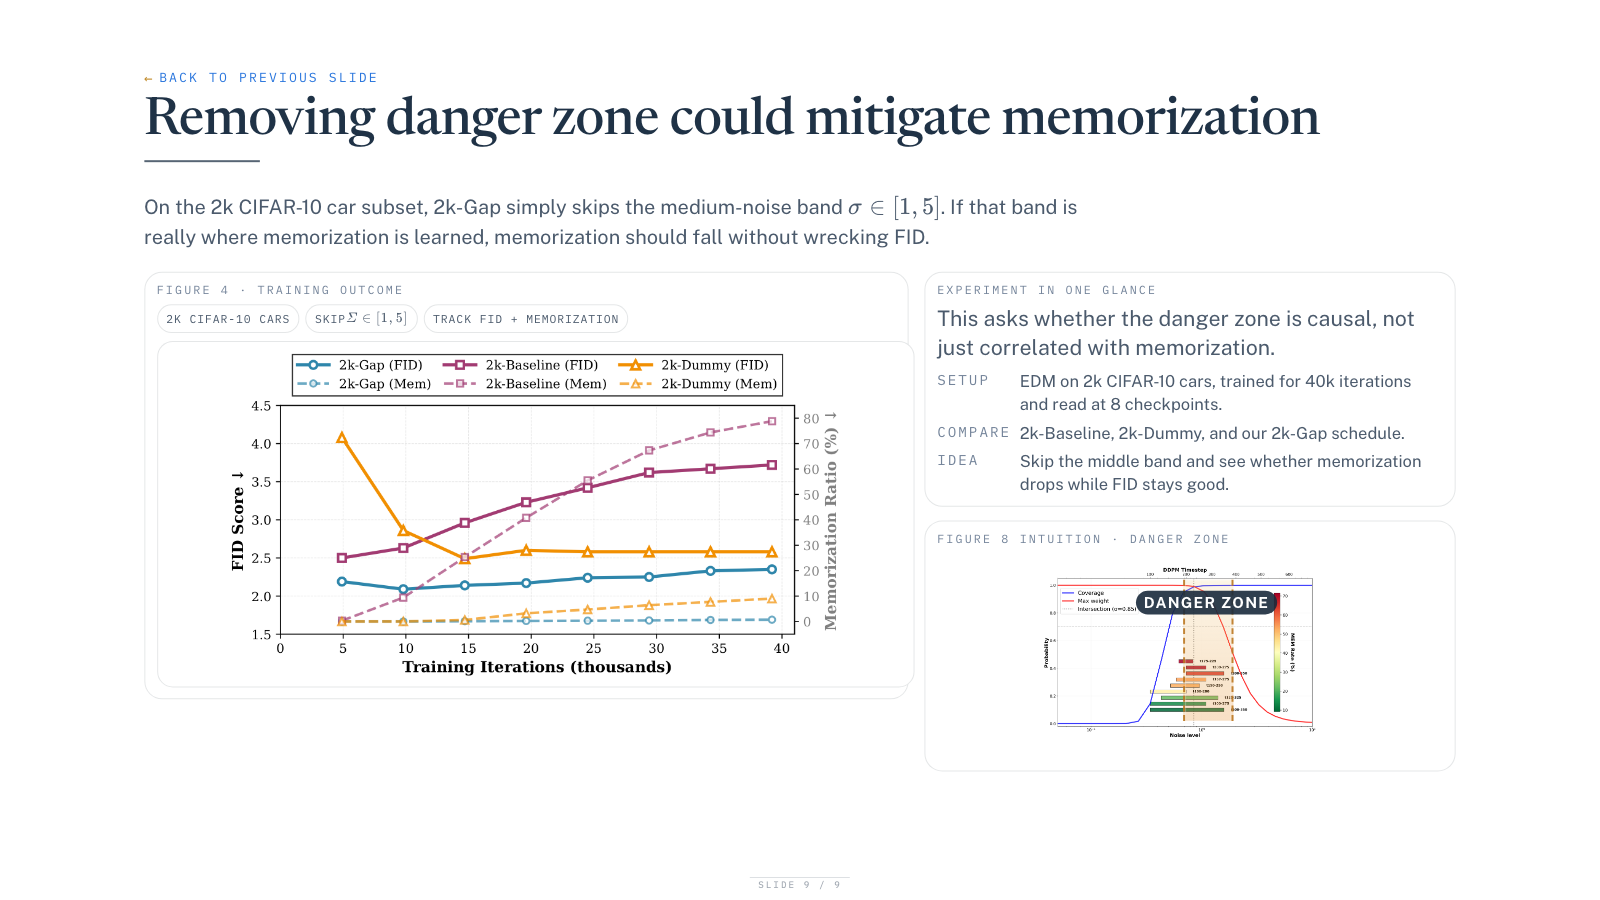
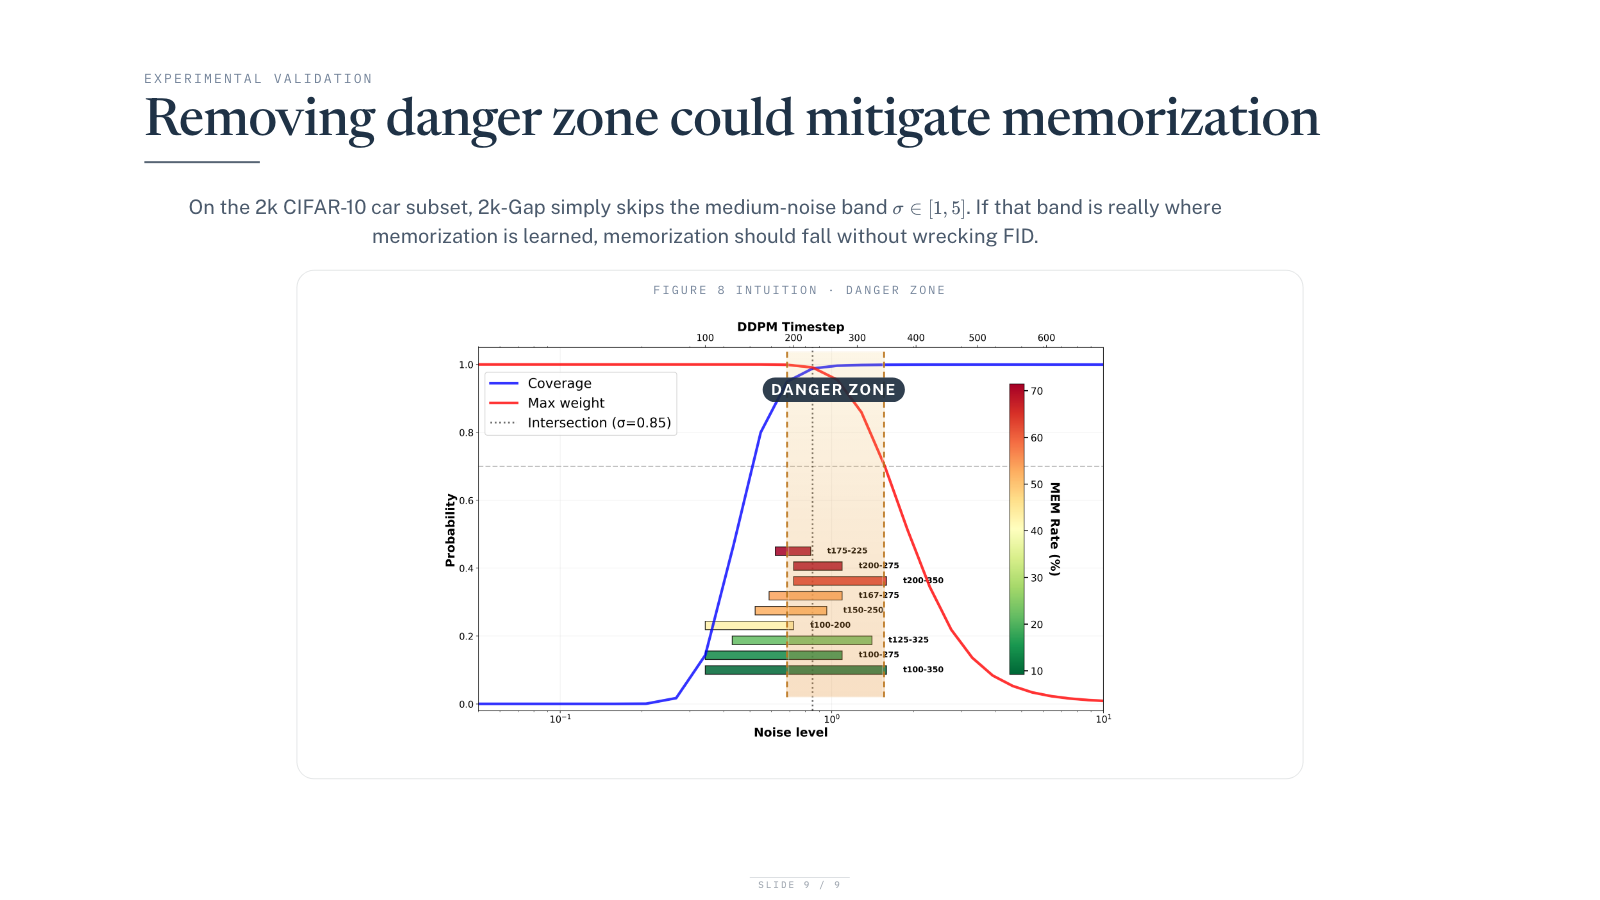
Simplify slide 9 validation layout

diff --git a/09-removing-danger-zone-could-mitigate-memorization.html b/09-removing-danger-zone-could-mitigate-memorization.html
@@ -36,31 +36,14 @@
       margin: 0 auto;
     }
 
-    .late-backlink {
-      display: inline-flex;
-      align-items: center;
-      gap: 0.5em;
+    .late-overline {
+      display: inline-block;
       margin: 0.06em 0 0.58em;
       font-family: "IBM Plex Mono", monospace;
       font-size: 0.38em;
       letter-spacing: 0.16em;
       text-transform: uppercase;
-      text-decoration: none;
       color: var(--ink-muted);
-    }
-
-    .late-backlink::before {
-      content: "←";
-      color: var(--gold);
-      font-size: 1.08em;
-      line-height: 1;
-      letter-spacing: 0;
-    }
-
-    .late-backlink:hover,
-    .late-backlink:focus-visible {
-      color: var(--navy);
-      outline: none;
     }
 
     .late-lead {
@@ -69,6 +52,13 @@
       font-size: 0.58em;
       line-height: 1.34;
       color: var(--ink-soft);
+    }
+
+    .late-lead--centered {
+      max-width: 56em;
+      margin-left: auto;
+      margin-right: auto;
+      text-align: center;
     }
 
     .late-grid {
@@ -179,13 +169,24 @@
       max-height: min(37vh, 21.5rem);
     }
 
+    .validation-figure-panel {
+      width: min(100%, 62rem);
+      margin: 0.4rem auto 0;
+      padding: 0.72rem 0.84rem 0.9rem;
+    }
+
+    .validation-figure-panel .late-panel__kicker {
+      text-align: center;
+      margin-bottom: 0.62rem;
+    }
+
     .danger-wrap {
-      margin-top: 0.16rem;
+      margin-top: 0;
     }
 
     .danger-frame {
       position: relative;
-      width: min(100%, 27rem);
+      width: min(100%, 56rem);
       margin: 0 auto;
     }
 
@@ -193,7 +194,7 @@
       display: block;
       width: 100%;
       height: auto;
-      max-height: min(22vh, 11rem);
+      max-height: min(48vh, 30rem);
       object-fit: contain;
     }
 
@@ -231,20 +232,12 @@
         grid-template-columns: 1fr;
       }
 
-      .danger-zone-slide .late-grid {
-        grid-template-columns: minmax(0, 1.12fr) minmax(0, 0.88fr);
-      }
-
-      .late-figure--gap img {
-        max-height: min(32vh, 18rem);
-      }
-
       .danger-frame {
-        width: min(100%, 24rem);
+        width: min(100%, 48rem);
       }
 
       .danger-frame img {
-        max-height: min(18vh, 9.2rem);
+        max-height: min(38vh, 23rem);
       }
     }
 
@@ -268,7 +261,7 @@
     }
 
     @media (max-height: 700px) {
-      .danger-zone-slide .late-backlink {
+      .danger-zone-slide .late-overline {
         margin-bottom: 0.3em;
       }
 
@@ -291,16 +284,8 @@
         margin-bottom: 0.24rem;
       }
 
-      .danger-zone-slide .late-stack {
-        gap: 0.4rem;
-      }
-
-      .danger-zone-slide .late-figure--gap img {
-        max-height: min(27vh, 15rem);
-      }
-
       .danger-zone-slide .danger-frame img {
-        max-height: min(13vh, 7.2rem);
+        max-height: min(28vh, 17rem);
       }
     }
   </style>
@@ -318,55 +303,20 @@
     <div class="slides">
       <section class="danger-zone-slide">
         <div class="late-shell">
-          <a class="late-backlink" href="08-the-danger-zone-visualized.html">Back to previous slide</a>
-          <h2 data-kicker="Empirical observation · Figure 4 + danger-zone intuition">Removing danger zone could mitigate memorization</h2>
-          <p class="late-lead">
+          <div class="late-overline">EXPERIMENTAL VALIDATION</div>
+          <h2 data-kicker="Empirical observation · Figure 8 intuition">Removing danger zone could mitigate memorization</h2>
+          <p class="late-lead late-lead--centered">
             On the 2k CIFAR-10 car subset, 2k-Gap simply skips the medium-noise band
             <span class="math inline">\(\sigma \in [1, 5]\)</span>. If that band is really where memorization is learned,
             memorization should fall without wrecking FID.
           </p>
-          <div class="late-grid">
-            <div class="late-panel late-panel--warm">
-              <div class="late-panel__kicker">Figure 4 · Training outcome</div>
-              <div class="late-chip-row">
-                <span class="late-chip">2k CIFAR-10 cars</span>
-                <span class="late-chip">skip \(\sigma \in [1, 5]\)</span>
-                <span class="late-chip">track FID + memorization</span>
-              </div>
-              <figure class="late-figure late-figure--gap">
-                <img src="assets/slide-09-gap-training.png" alt="Gap-training experiment showing FID and memorization trajectories for 2k-Gap, 2k-Baseline, and 2k-Dummy across training iterations.">
-              </figure>
-            </div>
-            <div class="late-stack">
-              <div class="late-panel late-panel--sage">
-                <div class="late-panel__kicker">Experiment in one glance</div>
-                <p>
-                  This asks whether the danger zone is causal, not just correlated with memorization.
-                </p>
-                <div class="late-kv">
-                  <div class="late-kv__row">
-                    <div class="late-kv__label">Setup</div>
-                    <span>EDM on 2k CIFAR-10 cars, trained for 40k iterations and read at 8 checkpoints.</span>
-                  </div>
-                  <div class="late-kv__row">
-                    <div class="late-kv__label">Compare</div>
-                    <span>2k-Baseline, 2k-Dummy, and our 2k-Gap schedule.</span>
-                  </div>
-                  <div class="late-kv__row">
-                    <div class="late-kv__label">Idea</div>
-                    <span>Skip the middle band and see whether memorization drops while FID stays good.</span>
-                  </div>
-                </div>
-              </div>
-              <div class="late-panel late-panel--paper">
-                <div class="late-panel__kicker">Figure 8 intuition · danger zone</div>
-                <div class="danger-wrap">
-                  <div class="danger-frame">
-                    <img src="assets/slide-09-danger-zone-combined.png" alt="Coverage and max-weight curves with gap configurations overlaid across the medium-noise regime.">
-                    <div class="danger-band" aria-hidden="true"></div>
-                    <div class="danger-band-label" aria-hidden="true">danger zone</div>
-                  </div>
-                </div>
+          <div class="late-panel validation-figure-panel">
+            <div class="late-panel__kicker">Figure 8 intuition · danger zone</div>
+            <div class="danger-wrap">
+              <div class="danger-frame">
+                <img src="assets/slide-09-danger-zone-combined.png" alt="Coverage and max-weight curves with gap configurations overlaid across the medium-noise regime.">
+                <div class="danger-band" aria-hidden="true"></div>
+                <div class="danger-band-label" aria-hidden="true">danger zone</div>
               </div>
             </div>
           </div>
